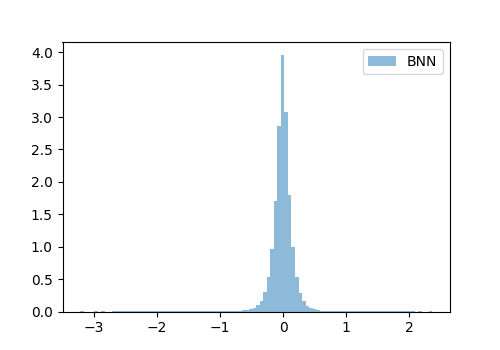
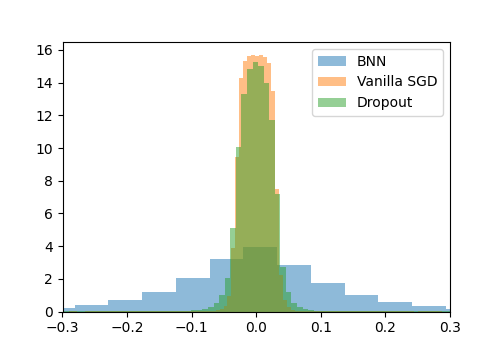
Add weight pruning function

diff --git a/weight_pruning.py b/weight_pruning.py
@@ -6,6 +6,11 @@ import numpy as np
 import matplotlib.pyplot as plt
 from load_model_utils import *
 import seaborn as sns
+from networks import BayesianLinear
+from data_utils import create_data_class
+from tqdm import tqdm
+from config import DEVICE
+import copy
 
 def collect_weights(model, bnn=False):
     '''Collect all weights from model in a list'''
@@ -42,6 +47,7 @@ def plot_histogram(weights_list, labels):
     fig.set_size_inches(5, 3.5) 
     for weights, label in zip(weights_list, labels):
         plt.hist(weights, alpha=0.5, density=True, label=label, bins=100)
+    plt.xlim(-0.3, 0.3)
     plt.legend()
     plt.savefig('./graphs/weights_histogram.png')
     plt.close()
@@ -67,37 +73,98 @@ def compute_snr(mu, sigma):
     '''Compute signal-to-noise ratio in decibels'''
     return 10*np.log10(abs(mu)/sigma)
 
-def prune_weights(model, weights, snr, drop_percentage=0.5):
+def prune_weights(model, snrs, drop_percentage=0.5):
     '''Remove weights with the lowest SNR'''
     # convert percentage to snr threshold
-    snr_threshold = np.percentile(weights, 100*drop_percentage)
+    snr_threshold = np.percentile(snrs, 100*drop_percentage)
 
-    # TODO: complete weight pruning
-    #for module in model.modules():
-    #    with torch.no_grad():
-    #        model.module.weight[34].zero_()
-    pass
+    with torch.no_grad():
+        # loop through weights
+        for layer in model.children():
+            if isinstance(layer, BayesianLinear):
+                weight_mus = layer.weight_mu
+                weight_rhos = layer.weight_rho
+                bias_mus = layer.bias_mu
+                bias_rhos = layer.bias_rho
+                weight_sigmas = torch.log1p(torch.exp(weight_rhos))
+                bias_sigmas = torch.log1p(torch.exp(bias_rhos))
+
+                # weights
+                snrs = 10*torch.log10(torch.abs(weight_mus)/weight_sigmas)
+                assert snrs.shape[0]==weight_mus.shape[0] and snrs.shape[1]==weight_mus.shape[1], 'SNR not same shape as mus'      
+                mask = snrs > snr_threshold
+                mask = mask.long()
+                layer.weight_mu = torch.nn.Parameter(weight_mus*mask)
+                layer.weight_rho = torch.nn.Parameter(weight_rhos*mask)
+                
+                # biases
+                snrs = 10*torch.log10(torch.abs(bias_mus)/bias_sigmas)
+                assert snrs.shape[0]==bias_mus.shape[0], 'SNR not same shape as mus'      
+                mask = snrs > snr_threshold
+                mask = mask.long()
+                layer.bias_mu = torch.nn.Parameter(bias_mus*mask)
+                layer.bias_rho = torch.nn.Parameter(bias_rhos*mask)
+
+    
+def predict(model, X):
+    probs = torch.nn.Softmax(dim=1)(model(X))
+    preds = torch.argmax(probs, dim=1)
+    return preds
+
+def evaluate(model, test_loader):
+    print('Evaluating on validation data')
+    correct = 0
+    total = 0
+    with torch.no_grad():
+        for data in tqdm(test_loader):
+            X, y = data
+            X, y = X.to(DEVICE), y.to(DEVICE)
+            preds = predict(model, X)
+            total += model.batch_size
+            correct += (preds == y).sum().item()
+    acc = correct / total
+    print(f'Validation accuracy: {acc}') 
+
 
 def main():
     # load models
     bnn_model = load_bnn_class_model('./saved_models/bnn_classification_model.pt')
-    #mlp_model = load_mlp_class_model('./saved_models/mlp_classification_model.pt')
-    #dropout_model = load_dropout_class_model('./saved_models/dropout_classification_model.pt')
+    mlp_model = load_mlp_class_model('./saved_models/mlp_classification_model.pt')
+    dropout_model = load_dropout_class_model('./saved_models/dropout_classification_model.pt')
        
     # collect weights
     bnn_mus, bnn_sigmas = collect_weights(bnn_model, bnn=True)
     bnn_weights = [sample_bnn_weights(mu, sigma) for mu, sigma in zip(bnn_mus, bnn_sigmas)]
-    #mlp_weights = collect_weights(mlp_model)
-    #dropout_weights = collect_weights(dropout_model)
+    mlp_weights = collect_weights(mlp_model)
+    dropout_weights = collect_weights(dropout_model)
     
-    # create histogram
+    # create weights histogram
     plot_histogram(
-        [bnn_weights], #[bnn_weights, mlp_weights, dropout_weights], 
-        ['BNN']) #['BNN', 'Vanilla SGD', 'Dropout'])
+        [bnn_weights, mlp_weights, dropout_weights], 
+        ['BNN', 'Vanilla SGD', 'Dropout']
+    )
 
     # plot snr densities
     snr = [compute_snr(mu, sigma) for mu, sigma in zip(bnn_mus, bnn_sigmas)]
     snr_plots(snr)
+
+    # perform pruning
+    pruned_bnn_model = copy.deepcopy(bnn_model)
+    print('-------- before pruning --------')
+    print(pruned_bnn_model.state_dict())
+    
+    print('-------- after pruning --------')
+    prune_weights(pruned_bnn_model, snr, drop_percentage=1.)
+    print(pruned_bnn_model.state_dict())
+
+    # evaluate pruned model
+    with torch.no_grad():
+        bnn_model.eval()
+        pruned_bnn_model.eval()
+        test_ds = create_data_class(train=False, batch_size=128, shuffle=False)
+        evaluate(pruned_bnn_model.to(DEVICE), test_ds)
+        evaluate(bnn_model.to(DEVICE), test_ds)
+
 
 if __name__=='__main__':
     main()

diff --git a/load_model_utils.py b/load_model_utils.py
@@ -19,8 +19,8 @@ def load_bnn_class_model(saved_model):
     }
     model = BayesianNetwork(model_params)
     model.load_state_dict(torch.load(saved_model))
-
-    return model.eval()
+    model.eval()
+    return model
 
 def load_mlp_class_model(saved_model):
     '''Load model weights from path saved_model.'''
@@ -35,8 +35,8 @@ def load_mlp_class_model(saved_model):
     }
     model = MLP(model_params)
     model.load_state_dict(torch.load(saved_model))
-
-    return model.eval()
+    model.eval()
+    return model
 
 def load_dropout_class_model(saved_model):
     '''Load model weights from path saved_model.'''
@@ -49,7 +49,8 @@ def load_dropout_class_model(saved_model):
             'mode': config.mode,
             'dropout': True
     }
+
     model = MLP_Dropout(model_params)
     model.load_state_dict(torch.load(saved_model))
-
-    return model.eval()
+    model.eval()
+    return model
